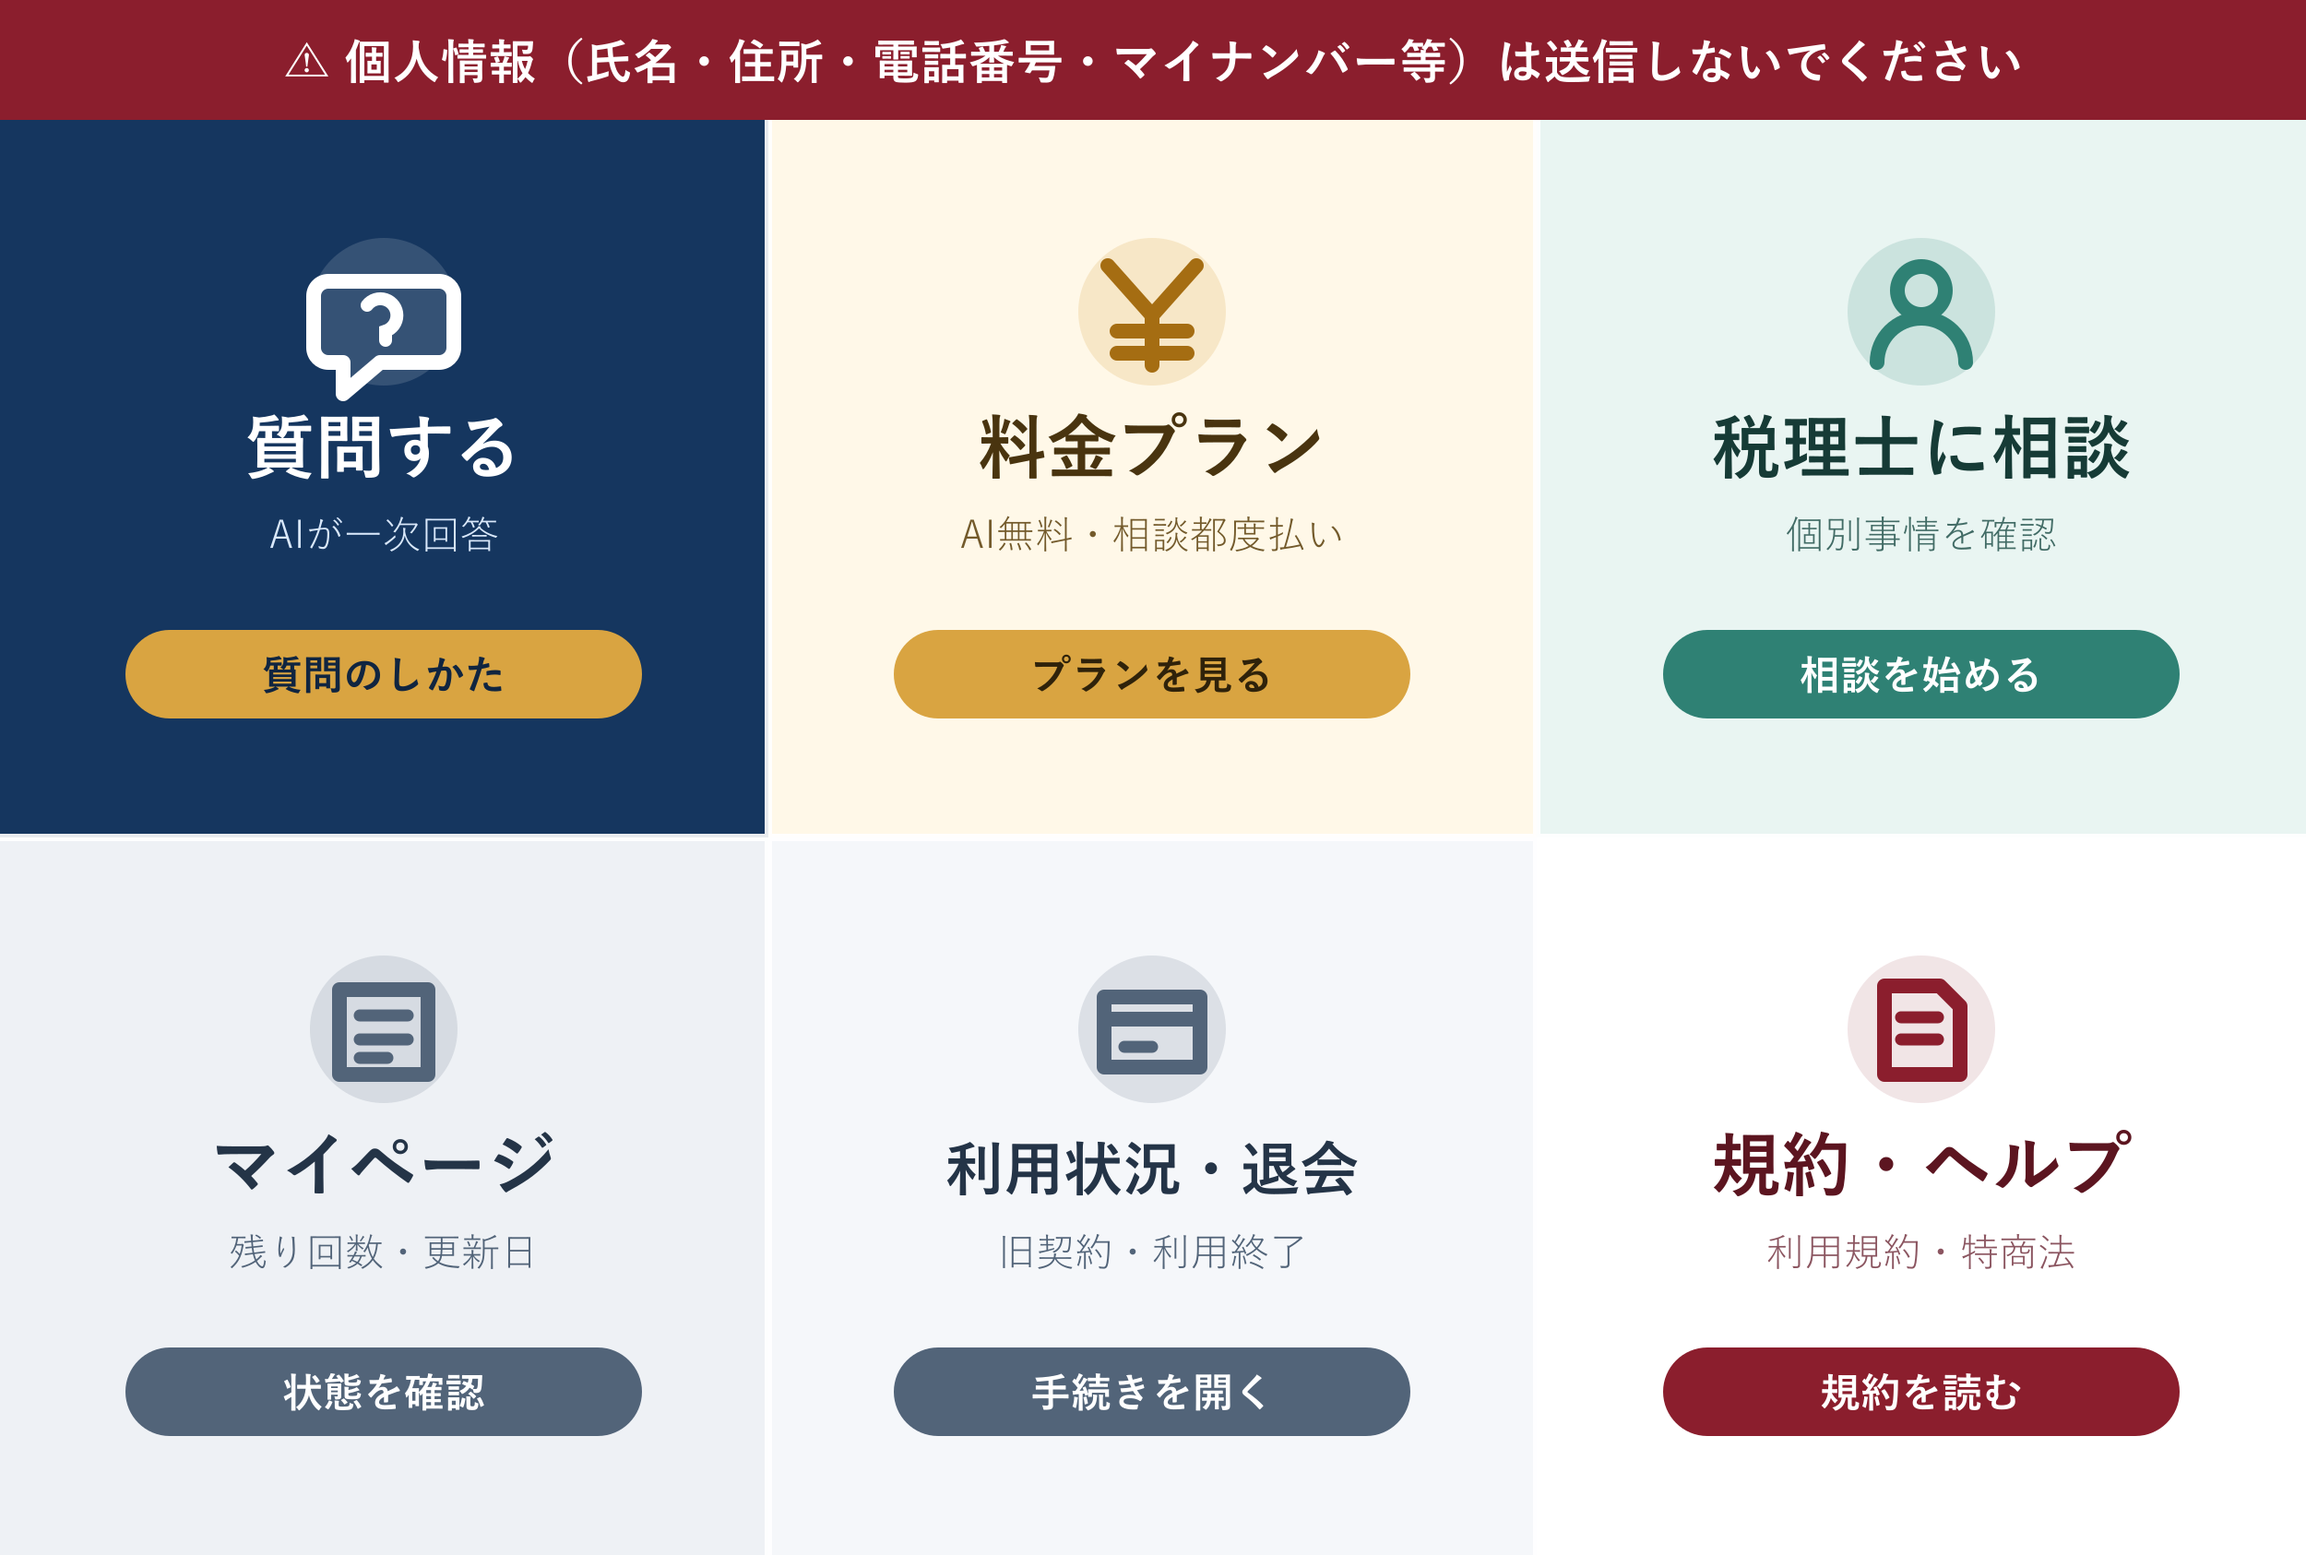
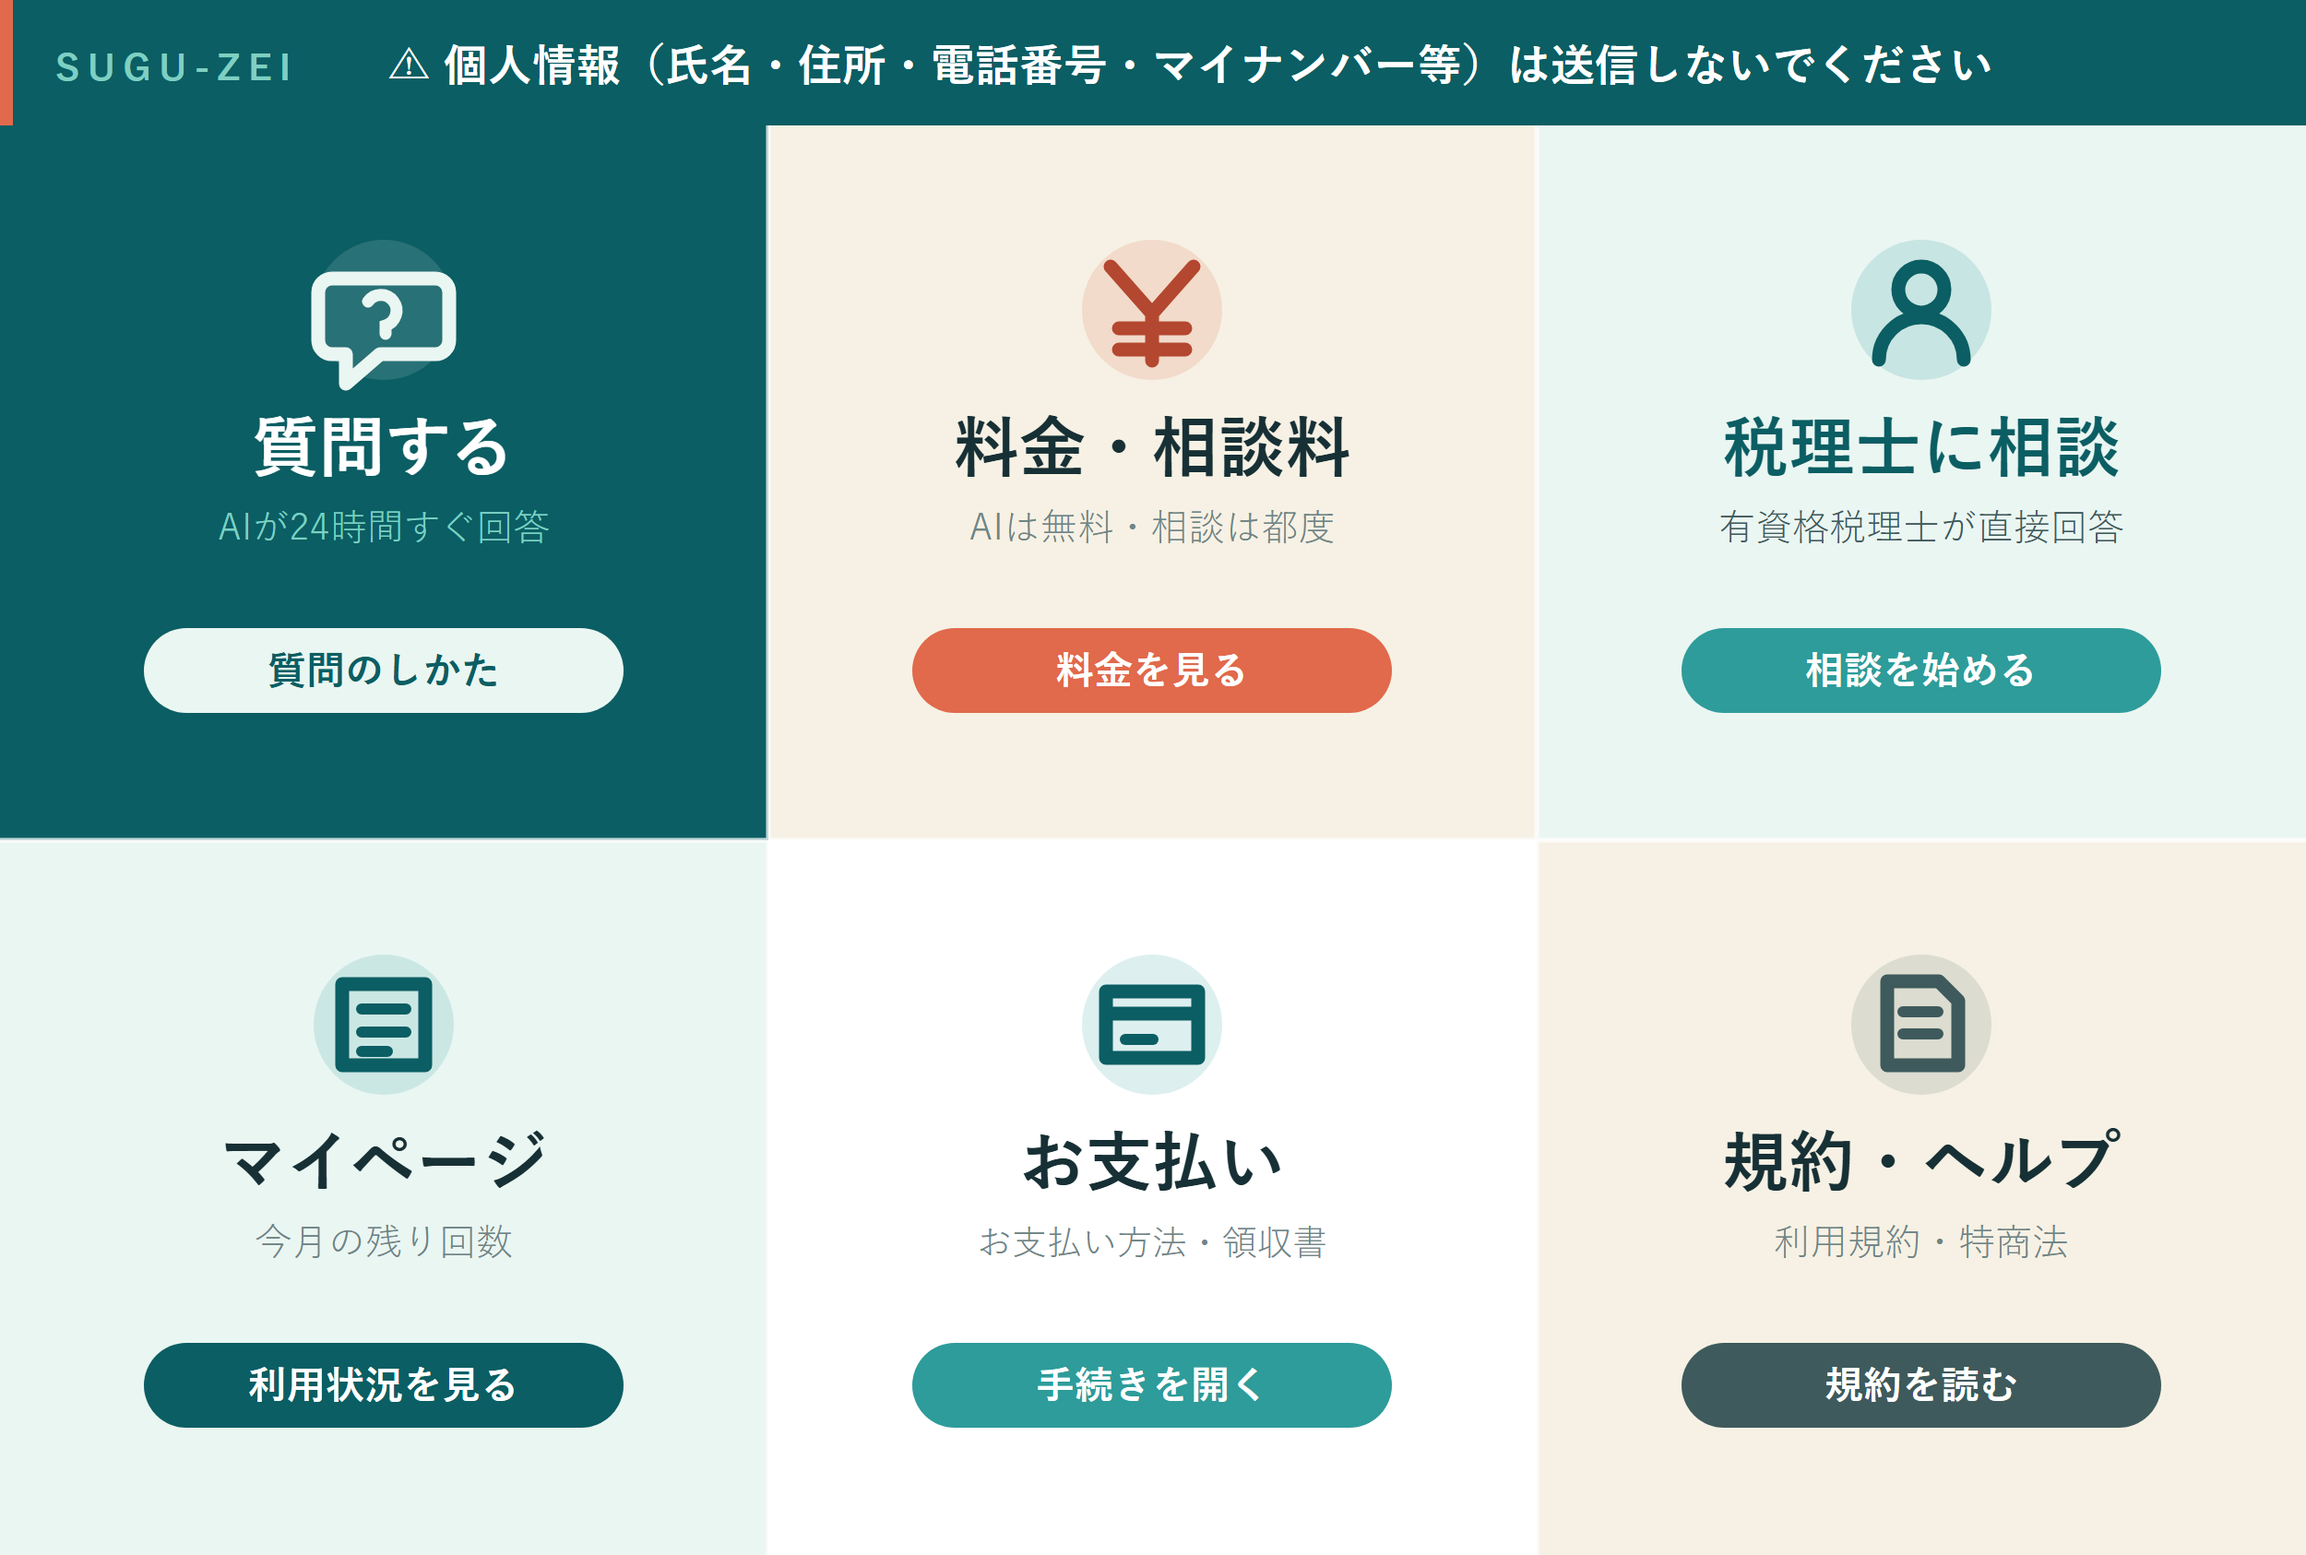
feat: refresh Suguzei rich menu

diff --git a/tests/rich-menu.test.ts b/tests/rich-menu.test.ts
@@ -66,19 +66,17 @@ test("ラベルと実際の動作が一致している", () => {
     areas.map((area) => [area.action.label, area.action]),
   );
 
-  // 「料金プラン」は料金表示であり、申し込み・決済を開始しない
-  assert.equal(byLabel.get("料金プラン")?.data, "action=show_pricing");
-  assert.equal(byLabel.get("料金プラン")?.displayText, "料金プランを見ます");
+  // 「料金・相談料」は料金表示であり、申し込み・決済を開始しない
+  assert.equal(byLabel.get("料金・相談料")?.data, "action=show_pricing");
+  assert.equal(byLabel.get("料金・相談料")?.displayText, "料金プランを見ます");
 
-  // 都度課金利用者にも意味が通じ、押しただけで退会を確定しない
+  // 都度払いに解約する契約は無い。退会ではなく支払い導線であること
+  assert.equal(byLabel.get("お支払い")?.data, "action=open_billing_portal");
   assert.equal(
-    byLabel.get("利用状況・退会")?.data,
-    "action=open_billing_portal",
+    byLabel.get("お支払い")?.displayText,
+    "お支払い方法と領収書を確認します",
   );
-  assert.equal(
-    byLabel.get("利用状況・退会")?.displayText,
-    "利用状況と退会方法を確認します",
-  );
+  assert.doesNotMatch(String(byLabel.get("お支払い")?.displayText), /退会|解約/);
 
   assert.equal(byLabel.get("マイページ")?.data, "action=show_status");
   assert.equal(byLabel.get("質問する")?.data, "action=start_question");
